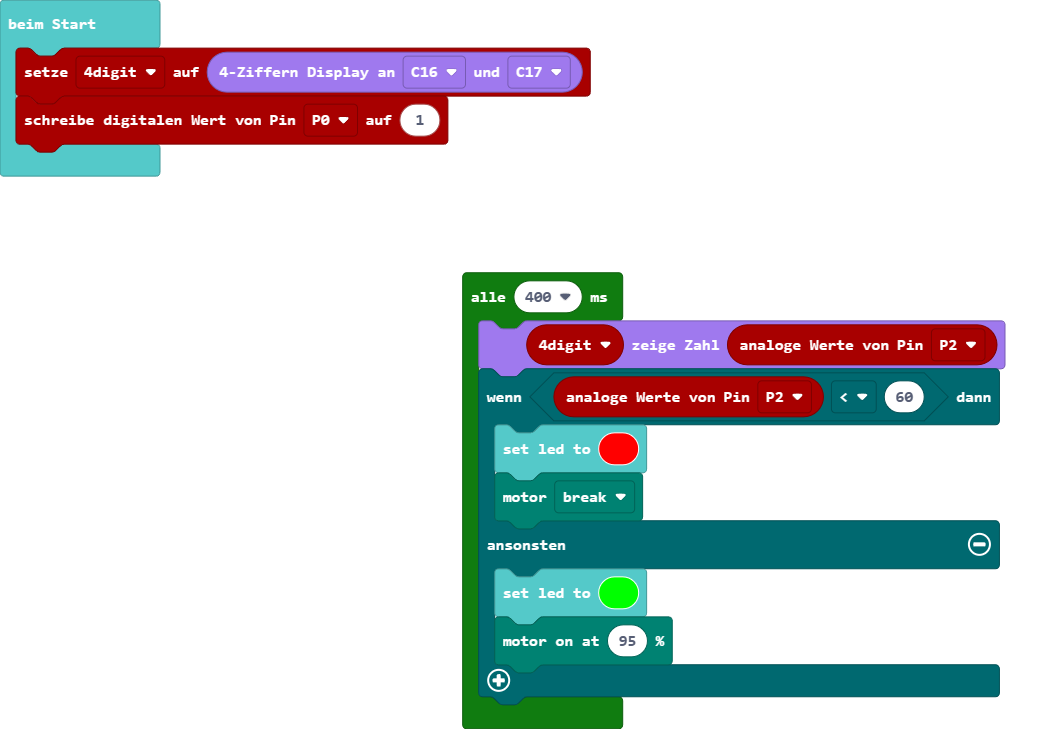
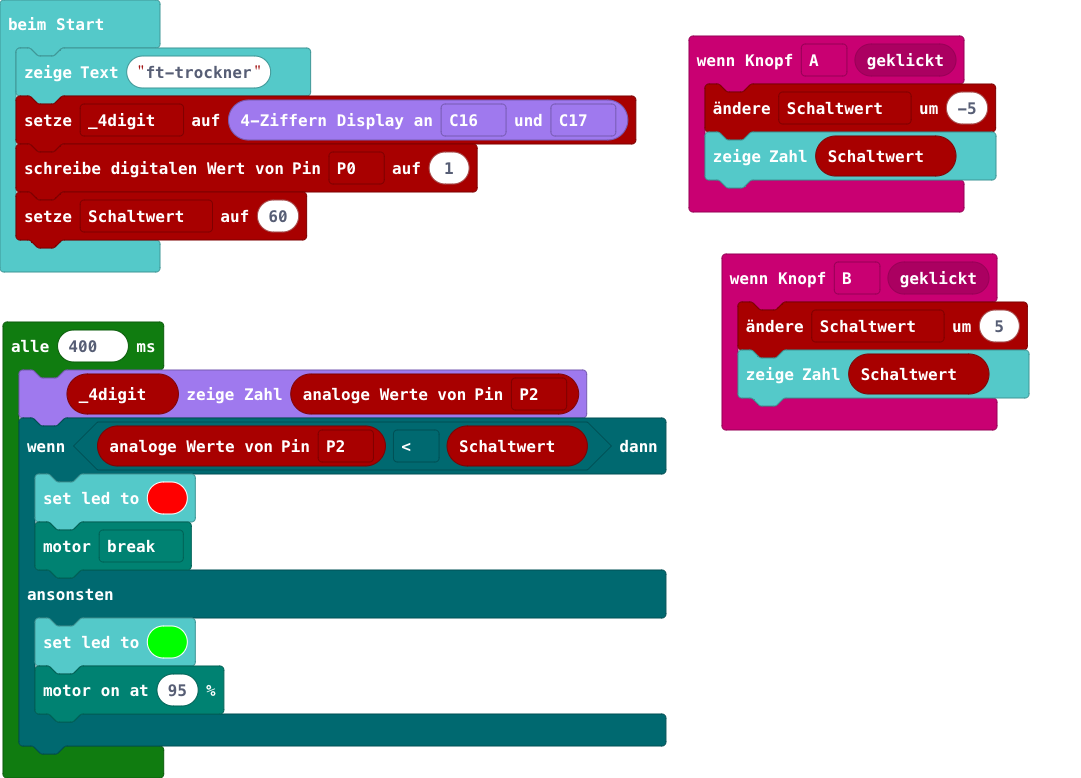
Aktualisiere main.blocks, main.ts

diff --git a/main.ts b/main.ts
@@ -1,8 +1,19 @@
+input.onButtonEvent(Button.A, input.buttonEventClick(), function () {
+    Schaltwert += -5
+    basic.showNumber(Schaltwert)
+})
+input.onButtonEvent(Button.B, input.buttonEventClick(), function () {
+    Schaltwert += 5
+    basic.showNumber(Schaltwert)
+})
+let Schaltwert = 0
+basic.showString("ft-trockner")
 let _4digit = grove.createDisplay(DigitalPin.C16, DigitalPin.C17)
 pins.digitalWritePin(DigitalPin.P0, 1)
+Schaltwert = 60
 loops.everyInterval(400, function () {
     _4digit.show(pins.analogReadPin(AnalogPin.P2))
-    if (pins.analogReadPin(AnalogPin.P2) < 60) {
+    if (pins.analogReadPin(AnalogPin.P2) < Schaltwert) {
         basic.setLedColor(0xff0000)
         motors.motorCommand(MotorCommand.Break)
     } else {
